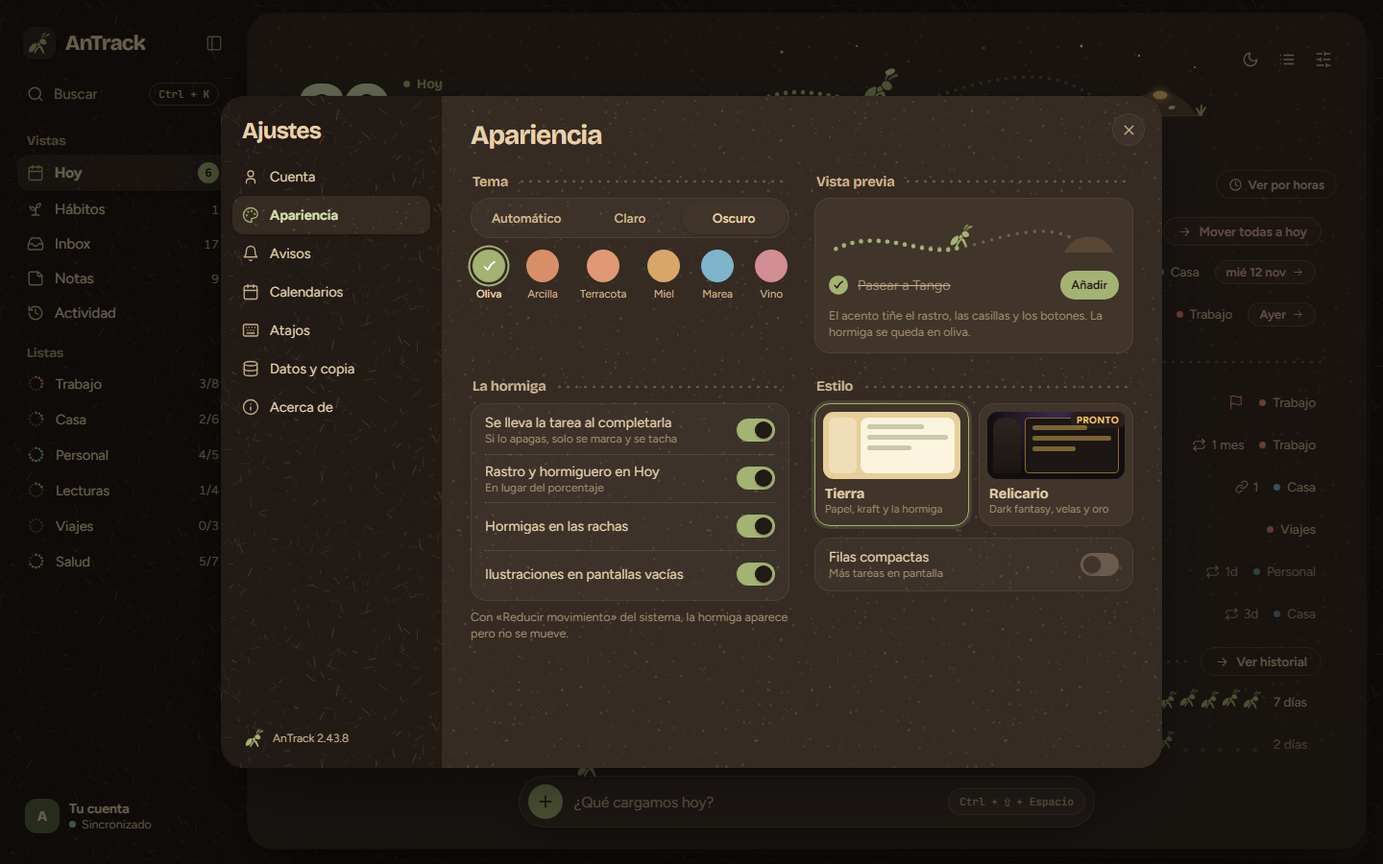
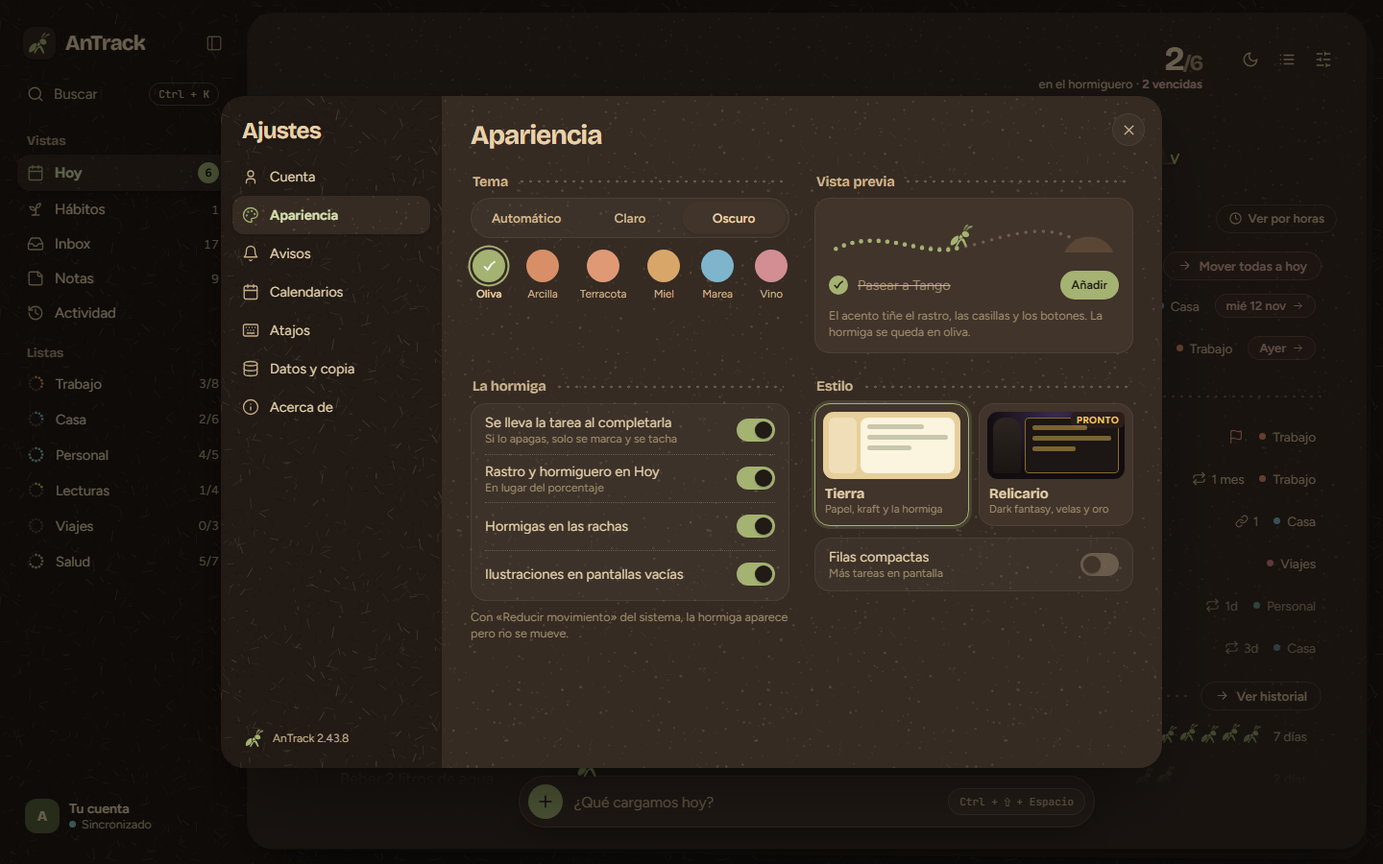
Docs: el nuevo progreso (senda con paradas y hormiguero) en todas las maquetas

diff --git a/docs/disenos/hormiga/movil.html b/docs/disenos/hormiga/movil.html
@@ -682,6 +682,44 @@ a{color:inherit;text-decoration:none}
 .bandera-r path:last-child{fill:var(--o500)}
 .mejor .etq-2{fill:var(--o600);font-weight:650}
 
+/* ═══ 26-nov: el progreso de Hoy como senda con paradas (ver progreso.html) ═══ */
+:root{--senda:#efdfb5;--senda-borde:#e2cb93;--piedra:#d9c49a}
+:root[data-theme="dark"]{--senda:#3f3328;--senda-borde:#4a3c2f;--piedra:#55463a}
+.rastro .rastro-pie{display:none}
+.cabeza .rastro{width:min(620px,100%);align-self:center}
+.pg-movil .cont-n,.pg-movil .cont-t{display:none}
+.bandera-r{display:none}
+.pg-host svg.pg{display:block;width:100%;height:auto;overflow:visible}
+.pg-host .senda-b{fill:none;stroke:var(--senda-borde);opacity:.75;stroke-width:17;stroke-linecap:round;stroke-linejoin:round}
+.pg-host .senda{fill:none;stroke:var(--senda);stroke-width:12;stroke-linecap:round;stroke-linejoin:round}
+.pg-host .pisada{fill:var(--punto);transition:fill .25s}
+.pg-host .pisada.h{fill:var(--o500)}
+.pg-host .piedra{fill:var(--piedra)}
+.pg-host .mata{fill:none;stroke:var(--o400);stroke-width:1.8;stroke-linecap:round}
+.pg-host .hojita{fill:var(--o400)}
+.pg-host .sombra-p{fill:rgba(0,0,0,.13)}
+.pg-host .parada{transition:fill .3s;transform-box:fill-box;transform-origin:center}
+.pg-host .parada.pend{fill:var(--hoja);stroke:var(--punto);stroke-width:1.8;stroke-dasharray:2.4 2.2}
+.pg-host .parada.venc{fill:rgba(var(--venc-rgb),.12);stroke:var(--venc);stroke-width:1.8;stroke-dasharray:none}
+.pg-host .parada.ok{stroke:none}
+.pg-host .parada.pop{animation:pgpop .45s cubic-bezier(.3,1.7,.5,1)}
+@keyframes pgpop{0%{transform:scale(.3)}100%{transform:scale(1)}}
+.pg-host .cont-n{font:700 34px var(--f-disp);letter-spacing:-.04em;fill:var(--t1)}
+.pg-host .cont-n tspan.de{fill:var(--t3);font-size:22px}
+.pg-host .cont-t{font:500 12.5px var(--f-sans);fill:var(--t2)}
+.pg-host .cont-t .v{fill:var(--venc);font-weight:650}
+.pg-host .pg-bandera{opacity:0;transition:opacity .4s}
+.pg-host .lleno .pg-bandera{opacity:1}
+.pg-host .entrada{fill:var(--tierra-osc);transition:filter .4s}
+.pg-host .lleno .entrada{filter:drop-shadow(0 0 5px rgba(242,196,109,.95))}
+.pg-host .grano{fill:var(--c);stroke:rgba(0,0,0,.18);stroke-width:.8}
+.pg-host .grano.nuevo{animation:pgcae .5s ease-out}
+@keyframes pgcae{from{transform:translateY(-14px);opacity:0}}
+.pg-host .mont-tex{pointer-events:none}
+.pg-host .ramita{fill:none;stroke:var(--ramita);stroke-width:2;stroke-linecap:round}
+.pg-host .mont-cuerpo{transition:transform .6s cubic-bezier(.3,1.5,.5,1)}
+.pg-host .suelo{fill:none;stroke:var(--suelo);stroke-width:2.4;stroke-linecap:round}
+
 @media (prefers-reduced-motion:reduce){*,*::before,*::after{animation:none!important;transition:none!important}}
 </style>
 </head>
@@ -976,7 +1014,7 @@ function camara(c,r,cols){
   for(let row=0;n>0&&row<14;row++){const cnt=Math.max(1,base-Math.floor(row/dec)),y=floor-row*SH;if(y<c.cy-c.ry+6)break;const x0=c.cx+ox-(cnt-1)*SW/2;
     for(let i=0;i<cnt&&n>0;i++,n--){const x=x0+i*SW+(r()-.5)*2,col=cols[Math.floor(r()*cols.length)],a=((r()-.5)*36).toFixed(0);
       s+=`<ellipse class="semilla" cx="${x.toFixed(1)}" cy="${y.toFixed(1)}" rx="5" ry="3.1" style="fill:${col}" transform="rotate(${a} ${x.toFixed(1)} ${y.toFixed(1)})"/>`;}}
-  if(c.mejor)s+=`<g class="bandera-r"><path d="M${c.cx} ${c.cy-c.ry+4} V ${c.cy-c.ry-16}"/><path d="M${c.cx+1} ${c.cy-c.ry-16} l 13 4.5 l -13 4.5 Z"/></g>`;
+  if(c.mejor)s+=`<g class="bandera-r"><path d="M${c.cx+c.rx*.55} ${c.cy-c.ry*.8+4} V ${c.cy-c.ry*.8-14}"/><path d="M${c.cx+c.rx*.55+1} ${c.cy-c.ry*.8-14} l 13 4.5 l -13 4.5 Z"/></g>`;
   
   if(c.actual){
     const ax=c.cx+c.rx*0.38,ay=c.cy+c.ry-27;
@@ -1601,6 +1639,97 @@ document.addEventListener('click',e=>{
 });
 
 document.addEventListener('click',e=>{if(e.target.closest('.velo')){location.hash='hoy';return;}if(e.target.closest('.m-fab')){location.hash=document.body.classList.contains('e-notas')?'notas':'captura';return;}const b=e.target.closest('.m-herr button');if(b&&b.innerHTML.includes('M4 6h16')){location.hash='menu';return;}if(b&&b.getAttribute('aria-label')==='Buscar'||b&&b.innerHTML.includes('m21 21-4.3'))location.hash='buscar';});
+/* ═══ 26-nov: el progreso de Hoy como senda con paradas ═══
+   Sustituye al rastro de puntos. Mismo componente que progreso.html. */
+const PGNS='http://www.w3.org/2000/svg';
+const PGL={t:'var(--l-trabajo)',c:'var(--l-casa)',p:'var(--l-personal)',r:'var(--l-lect)',v:'var(--l-viajes)'};
+let pgUid=0,PG=null;
+function pgTextura(nx,ny){let r=7,o="";const R=()=>(r=(r*1664525+1013904223)>>>0)/4294967296;
+  for(let i=0;i<90;i++){const x=nx-46+R()*92,y=ny-R()*48;const e=((x-nx+1)/47)**2+((ny-y)/49)**2;if(e>.86)continue;
+    o+=`<circle cx="${x.toFixed(1)}" cy="${y.toFixed(1)}" r="${(0.6+R()*1.1).toFixed(2)}" style="fill:${R()<.6?"var(--mont-3)":"var(--mont-1)"};opacity:${(0.45+R()*0.4).toFixed(2)}"/>`;}
+  return o;}
+function pgNuevo(el,{tareas,movil,venc}){
+  const U=++pgUid;
+  const W=movil?360:600,H=(movil?116:124)+18;
+  const TR=movil?'M14 86 C 60 60, 100 100, 160 80 S 236 58, 262 78':'M20 92 C 100 60, 170 108, 260 84 S 400 56, 452 82';
+  const nx=movil?312:520,ny=movil?96:104;
+  const muchas=tareas.length>10, rx=muchas?5:8, ry=muchas?3.4:5.2;
+  el.innerHTML=`<svg class="pg" viewBox="0 0 ${W} ${H}"><defs><radialGradient id="mg${U}" cx="38%" cy="22%" r="85%"><stop offset="0" stop-color="var(--mont-1)"/><stop offset=".55" stop-color="var(--mont-2)"/><stop offset="1" stop-color="var(--mont-3)"/></radialGradient><filter id="rug${U}" x="-5%" y="-30%" width="110%" height="160%"><feTurbulence type="fractalNoise" baseFrequency=".09" numOctaves="2" seed="4"/><feDisplacementMap in="SourceGraphic" scale="4.5"/></filter><mask id="m${pgUid++}" maskUnits="userSpaceOnUse" x="-20" y="-20" width="${W+40}" height="${H+40}"><path class="mk" d="${TR}" fill="none" stroke="#fff" stroke-width="16" stroke-linecap="round"/></mask></defs>
+    <g transform="translate(0 18)"><g class="deco"></g><g filter="url(#rug${U})"><path d="${TR} C ${nx-62} ${ny-28}, ${nx-46} ${ny-8}, ${nx-24} ${ny-8}" class="senda-b"/><path d="${TR} C ${nx-62} ${ny-28}, ${nx-46} ${ny-8}, ${nx-24} ${ny-8}" class="senda"/></g><g class="pisadas"></g><path class="mk" d="" style="display:none"/><path class="guia" d="${TR}" fill="none"/>
+    <g class="paradas"></g>
+    <g class="nido"><path class="suelo" d="M${nx-10} ${ny} H ${nx+48}"/>
+      <ellipse cx="${nx}" cy="${ny+1}" rx="56" ry="5" style="fill:rgba(0,0,0,.12)"/>
+      <g class="mont-cuerpo" style="transform-origin:${nx}px ${ny}px">
+        <path d="M${nx-50} ${ny} C ${nx-47} ${ny-14}, ${nx-41} ${ny-25}, ${nx-30} ${ny-35} C ${nx-22} ${ny-43}, ${nx-10} ${ny-50}, ${nx+3} ${ny-49} C ${nx+9} ${ny-52}, ${nx+16} ${ny-49}, ${nx+20} ${ny-46} C ${nx+30} ${ny-40}, ${nx+40} ${ny-24}, ${nx+48} ${ny} Z" style="fill:url(#mg${U})"/>
+        <g class="mont-tex">${pgTextura(nx,ny)}</g>
+        <path class="ramita" d="M${nx-6} ${ny-38} l 22 -6 M${nx+8} ${ny-40} l 5 -4"/><path class="ramita" d="M${nx+18} ${ny-26} l 16 7"/>
+      </g>
+      <g filter="url(#rug${U})"><path d="M${nx-52} ${ny-16} C ${nx-42} ${ny-13}, ${nx-32} ${ny-7}, ${nx-23} ${ny-6}" class="senda-b" style="stroke-width:15"/><path d="M${nx-52} ${ny-16} C ${nx-42} ${ny-13}, ${nx-32} ${ny-7}, ${nx-23} ${ny-6}" class="senda" style="stroke-width:10"/></g>
+      <path class="entrada" d="M${nx-33} ${ny} C ${nx-33} ${ny-17}, ${nx-13} ${ny-17}, ${nx-13} ${ny} Z"/><path d="M${nx-35} ${ny} C ${nx-35} ${ny-20}, ${nx-11} ${ny-20}, ${nx-11} ${ny}" style="fill:none;stroke:var(--senda-borde);stroke-width:2.4;opacity:.9"/>
+      <g class="granos"></g>
+      <g class="pg-bandera"><path d="M${nx+14} ${ny-36} V ${ny-66}" style="stroke:var(--t2);stroke-width:2.2;stroke-linecap:round"/><path d="M${nx+15} ${ny-66} L ${nx+36} ${ny-59} L ${nx+15} ${ny-52} Z" style="fill:var(--o500)"/></g>
+      <path class="hierba" d="M${nx+50} ${ny} l-3 -8 M${nx+50} ${ny} l4 -9"/></g>
+    <g class="hor">${hormiga({x:-(movil?20:24),y:-(movil?36:43),w:movil?40:48})}</g></g>
+    <text class="cont-n" x="${W-2}" y="28" text-anchor="end"></text>
+    <text class="cont-t" x="${W-2}" y="46" text-anchor="end"></text></svg>`;
+  const g=el.querySelector('.guia'),Lg=g.getTotalLength();
+  const posL=i=>Lg*(0.05+0.9*(tareas.length===1?0.5:i/(tareas.length-1)));
+  const pt=l=>{const a=g.getPointAtLength(l),b=g.getPointAtLength(Math.min(Lg,l+2)),c=g.getPointAtLength(Math.max(0,l-2));return {x:a.x,y:a.y,ang:Math.atan2(b.y-c.y,b.x-c.x)*180/Math.PI};};
+  const nrm=l=>{const a=g.getPointAtLength(Math.max(0,l-1)),b=g.getPointAtLength(Math.min(Lg,l+1));const dx=b.x-a.x,dy=b.y-a.y,m=Math.hypot(dx,dy)||1;return [-dy/m,dx/m];};
+  const fps=[],gpi=el.querySelector('.pisadas'),paso_=muchas?7:8;
+  for(let l=4,i=0;l<Lg-2;l+=paso_,i++){const a=g.getPointAtLength(l),[nx_,ny_]=nrm(l),sd=i%2?1:-1;const c=document.createElementNS(PGNS,'ellipse');
+    c.setAttribute('cx',(a.x+nx_*3*sd).toFixed(1));c.setAttribute('cy',(a.y+ny_*3*sd).toFixed(1));c.setAttribute('rx','1.9');c.setAttribute('ry','1.3');c.setAttribute('class','pisada');gpi.appendChild(c);fps.push({l,c});}
+  const dg=el.querySelector('.deco');const deco=(f,off,html)=>{const l=Lg*f,a=g.getPointAtLength(l),[ux,uy]=nrm(l);return html(a.x+ux*off,a.y+uy*off);};
+  dg.innerHTML=[
+    deco(.16,17,(x,y)=>`<path class="mata" d="M${x} ${y} l-3 -7 M${x} ${y} l0.5 -9 M${x} ${y} l4 -6"/>`),
+    deco(.33,-15,(x,y)=>`<ellipse class="piedra" cx="${x}" cy="${y}" rx="4.5" ry="3"/><ellipse class="piedra" cx="${x+7}" cy="${y+2}" rx="2.6" ry="2"/>`),
+    deco(.52,16,(x,y)=>`<path class="hojita" d="M${x} ${y} q 8 -10 16 -3 q -8 8 -16 3 Z"/>`),
+    deco(.7,-16,(x,y)=>`<path class="mata" d="M${x} ${y} l-3 -7 M${x} ${y} l0.5 -10 M${x} ${y} l4 -7"/>`),
+    deco(.86,15,(x,y)=>`<ellipse class="piedra" cx="${x}" cy="${y}" rx="3.4" ry="2.4"/>`)].join('');
+  const gp=el.querySelector('.paradas');
+  tareas.forEach((t,i)=>{const q=pt(posL(i));const w=document.createElementNS(PGNS,'g');w.setAttribute('transform',`translate(${q.x.toFixed(1)} ${q.y.toFixed(1)}) rotate(${(q.ang-25).toFixed(1)})`);
+    const sh=document.createElementNS(PGNS,'ellipse');sh.setAttribute('cy',1.8);sh.setAttribute('rx',rx);sh.setAttribute('ry',ry*.8);sh.setAttribute('class','sombra-p');w.appendChild(sh);
+    const e=document.createElementNS(PGNS,'ellipse');e.setAttribute('rx',rx);e.setAttribute('ry',ry);e.classList.add('parada');w.appendChild(e);gp.appendChild(w);t.el=e;});
+  const s={tareas,el,Lg,pAct:0};
+  const GR=[];for(let r=0,c=5;c>0;r++,c--)for(let i=0;i<c;i++)GR.push([-4+i*9+r*4.5,-r*5.4]);
+  s.pintar=(animarGrano)=>{
+    const done=tareas.filter(t=>t.ok).length,total=tareas.length,v=tareas.filter(t=>!t.ok&&t.venc).length;
+    tareas.forEach(t=>{t.el.setAttribute('class','parada '+(t.ok?'ok':t.venc?'pend venc':'pend'));t.el.style.fill=t.ok?PGL[t.l]:'';});
+    const ultima=tareas.reduce((m,t,i)=>t.ok?i:m,-1);
+    const mk=el.querySelector('.mk');mk.style.strokeDasharray=`${Lg} ${Lg}`;mk.style.strokeDashoffset=Lg-(ultima<0?0:posL(ultima));
+    const gg=el.querySelector('.granos');gg.innerHTML='';tareas.filter(t=>t.ok).slice(0,GR.length).forEach((t,i)=>{const [dx,dy]=GR[i];
+      gg.insertAdjacentHTML('beforeend',`<ellipse class="grano${animarGrano&&i===done-1?' nuevo':''}" style="--c:${PGL[t.l]}" cx="${nx+dx}" cy="${ny+dy-3}" rx="4.8" ry="3" transform="rotate(${(i*37)%40-20} ${nx+dx} ${ny+dy-3})"/>`);});
+    el.querySelector('svg').classList.toggle('lleno',done===total);
+    el.querySelector('.mont-cuerpo').style.transform=`scale(${(0.86+0.18*done/total).toFixed(3)})`;
+    el.querySelector('.cont-n').innerHTML=`${done}<tspan class="de">/${total}</tspan>`;
+    el.querySelector('.cont-t').innerHTML=done===total?'todo en el hormiguero':v?`en el hormiguero · <tspan class="v">${v} ${v>1?'vencidas':'vencida'}</tspan>`:'en el hormiguero';
+  };
+  s.destino=()=>{const i=tareas.findIndex(t=>!t.ok);return i<0?Lg+30:posL(i)-(muchas?12:18);};
+  s.colocar=l=>{fps.forEach(f=>f.c.classList.toggle('h',f.l<l));let q;if(l>Lg){q={x:nx-38,y:ny-1,ang:0};}else q=pt(Math.max(0,l));
+    el.querySelector('.hor').setAttribute('transform',`translate(${q.x.toFixed(1)} ${q.y.toFixed(1)}) rotate(${q.ang.toFixed(1)})`);s.pAct=l;};
+  s.completar=()=>{const i=tareas.findIndex(t=>!t.ok);if(i<0||s.ocupado)return;s.ocupado=true;
+    tareas[i].ok=true;s.pintar(true);tareas[i].el.classList.add('pop');
+    const l0=s.pAct,l1=s.destino(),t0=performance.now(),D=900,ant=el.querySelector('.hormiga');ant.classList.add('anda');
+    (function paso(t){const k=Math.min(1,(t-t0)/D),e=k<.5?2*k*k:1-Math.pow(-2*k+2,2)/2;s.colocar(l1>Lg&&k>.85?l1:l0+(Math.min(l1,Lg)-l0)*e);
+      if(k<1)requestAnimationFrame(paso);else{ant.classList.remove('anda');s.colocar(l1);s.ocupado=false;}})(t0);};
+  s.pintar();s.colocar(s.destino());return s;
+}
+
+
+function pgTareas(){const H='pctrvtcp'.split(''),D='pcrtvcpt'.split('');const t=[];
+  for(let i=0;i<E.done;i++)t.push({l:D[i%D.length],ok:1});
+  for(let i=0;i<E.venc&&t.length<E.total;i++)t.push({l:i%2?'t':'c',venc:1});
+  while(t.length<E.total)t.push({l:H[t.length%H.length]});return t;}
+function rastroSVG(){return `<div class="pg-host"><svg width="0" height="0"><path id="tr-guia" d="M0 0"/><path id="tr-mask" d="M0 0"/><g id="tr-hor"><svg class="hormiga"></svg></g></svg></div>`;}
+function ponerProgreso(){const h=document.querySelector('.pg-host');if(!h)return;
+  const mv=h.getBoundingClientRect().width<420;PG=pgNuevo(h,{tareas:pgTareas(),movil:mv});
+  if(mv){h.classList.add('pg-movil');h.querySelector('svg').setAttribute('viewBox','0 24 360 100');}pie();}
+function pie(){const mv=document.querySelector('.pg-movil');
+  const n=document.getElementById('n-nav');if(n)n.textContent=E.pend;const c=document.getElementById('n-tareas');if(c)c.textContent=E.pend;
+  const m=document.getElementById('mes');if(!m)return;
+  m.innerHTML=mv?`<b>${E.done}/${E.total}</b> hechas${E.venc?` · <span style="color:var(--venc);font-weight:600">${E.venc} vencidas</span>`:''}`:(E.pend?`de noviembre · ${E.pend} sin hacer`:'de noviembre · nada pendiente');}
+function avanzar(){if(PG)PG.completar();}
+function migas(){}
 /* ═══ Arranque ═══ */
 texturas();
 const raiz=document.getElementById('raiz');

diff --git a/docs/disenos/hormiga/index.html b/docs/disenos/hormiga/index.html
@@ -571,6 +571,43 @@ a{color:inherit;text-decoration:none}
 .bandera-r path:last-child{fill:var(--o500)}
 .mejor .etq-2{fill:var(--o600);font-weight:650}
 
+/* ═══ 26-nov: el progreso de Hoy como senda con paradas (ver progreso.html) ═══ */
+:root{--senda:#efdfb5;--senda-borde:#e2cb93;--piedra:#d9c49a}
+:root[data-theme="dark"]{--senda:#3f3328;--senda-borde:#4a3c2f;--piedra:#55463a}
+.rastro .rastro-pie{display:none}
+.cabeza .rastro{width:min(620px,100%);align-self:center}
+.pg-movil .cont-n,.pg-movil .cont-t{display:none}
+.pg-host svg.pg{display:block;width:100%;height:auto;overflow:visible}
+.pg-host .senda-b{fill:none;stroke:var(--senda-borde);opacity:.75;stroke-width:17;stroke-linecap:round;stroke-linejoin:round}
+.pg-host .senda{fill:none;stroke:var(--senda);stroke-width:12;stroke-linecap:round;stroke-linejoin:round}
+.pg-host .pisada{fill:var(--punto);transition:fill .25s}
+.pg-host .pisada.h{fill:var(--o500)}
+.pg-host .piedra{fill:var(--piedra)}
+.pg-host .mata{fill:none;stroke:var(--o400);stroke-width:1.8;stroke-linecap:round}
+.pg-host .hojita{fill:var(--o400)}
+.pg-host .sombra-p{fill:rgba(0,0,0,.13)}
+.pg-host .parada{transition:fill .3s;transform-box:fill-box;transform-origin:center}
+.pg-host .parada.pend{fill:var(--hoja);stroke:var(--punto);stroke-width:1.8;stroke-dasharray:2.4 2.2}
+.pg-host .parada.venc{fill:rgba(var(--venc-rgb),.12);stroke:var(--venc);stroke-width:1.8;stroke-dasharray:none}
+.pg-host .parada.ok{stroke:none}
+.pg-host .parada.pop{animation:pgpop .45s cubic-bezier(.3,1.7,.5,1)}
+@keyframes pgpop{0%{transform:scale(.3)}100%{transform:scale(1)}}
+.pg-host .cont-n{font:700 34px var(--f-disp);letter-spacing:-.04em;fill:var(--t1)}
+.pg-host .cont-n tspan.de{fill:var(--t3);font-size:22px}
+.pg-host .cont-t{font:500 12.5px var(--f-sans);fill:var(--t2)}
+.pg-host .cont-t .v{fill:var(--venc);font-weight:650}
+.pg-host .pg-bandera{opacity:0;transition:opacity .4s}
+.pg-host .lleno .pg-bandera{opacity:1}
+.pg-host .entrada{fill:var(--tierra-osc);transition:filter .4s}
+.pg-host .lleno .entrada{filter:drop-shadow(0 0 5px rgba(242,196,109,.95))}
+.pg-host .grano{fill:var(--c);stroke:rgba(0,0,0,.18);stroke-width:.8}
+.pg-host .grano.nuevo{animation:pgcae .5s ease-out}
+@keyframes pgcae{from{transform:translateY(-14px);opacity:0}}
+.pg-host .mont-tex{pointer-events:none}
+.pg-host .ramita{fill:none;stroke:var(--ramita);stroke-width:2;stroke-linecap:round}
+.pg-host .mont-cuerpo{transition:transform .6s cubic-bezier(.3,1.5,.5,1)}
+.pg-host .suelo{fill:none;stroke:var(--suelo);stroke-width:2.4;stroke-linecap:round}
+
 @media (prefers-reduced-motion:reduce){*,*::before,*::after{animation:none!important;transition:none!important}}
 </style>
 </head>
@@ -884,7 +921,7 @@ function camara(c,r,cols){
   for(let row=0;n>0&&row<14;row++){const cnt=Math.max(1,base-Math.floor(row/dec)),y=floor-row*SH;if(y<c.cy-c.ry+6)break;const x0=c.cx+ox-(cnt-1)*SW/2;
     for(let i=0;i<cnt&&n>0;i++,n--){const x=x0+i*SW+(r()-.5)*2,col=cols[Math.floor(r()*cols.length)],a=((r()-.5)*36).toFixed(0);
       s+=`<ellipse class="semilla" cx="${x.toFixed(1)}" cy="${y.toFixed(1)}" rx="6.2" ry="3.8" style="fill:${col}" transform="rotate(${a} ${x.toFixed(1)} ${y.toFixed(1)})"/>`;}}
-  if(c.mejor)s+=`<g class="bandera-r"><path d="M${c.cx} ${c.cy-c.ry+4} V ${c.cy-c.ry-16}"/><path d="M${c.cx+1} ${c.cy-c.ry-16} l 13 4.5 l -13 4.5 Z"/></g>`;
+  if(c.mejor)s+=`<g class="bandera-r"><path d="M${c.cx+c.rx*.55} ${c.cy-c.ry*.8+4} V ${c.cy-c.ry*.8-14}"/><path d="M${c.cx+c.rx*.55+1} ${c.cy-c.ry*.8-14} l 13 4.5 l -13 4.5 Z"/></g>`;
   
   if(c.actual){
     const ax=c.cx+c.rx*0.42,ay=c.cy+c.ry-34;
@@ -1270,6 +1307,97 @@ document.addEventListener('click',e=>{
 });
 addEventListener('keydown',e=>{if((e.ctrlKey||e.metaKey)&&e.key.toLowerCase()==='k'){e.preventDefault();location.hash='buscar';}if(e.key==='Escape'&&/buscar|ajustes/.test(location.hash))location.hash='hoy';});
 
+/* ═══ 26-nov: el progreso de Hoy como senda con paradas ═══
+   Sustituye al rastro de puntos. Mismo componente que progreso.html. */
+const PGNS='http://www.w3.org/2000/svg';
+const PGL={t:'var(--l-trabajo)',c:'var(--l-casa)',p:'var(--l-personal)',r:'var(--l-lect)',v:'var(--l-viajes)'};
+let pgUid=0,PG=null;
+function pgTextura(nx,ny){let r=7,o="";const R=()=>(r=(r*1664525+1013904223)>>>0)/4294967296;
+  for(let i=0;i<90;i++){const x=nx-46+R()*92,y=ny-R()*48;const e=((x-nx+1)/47)**2+((ny-y)/49)**2;if(e>.86)continue;
+    o+=`<circle cx="${x.toFixed(1)}" cy="${y.toFixed(1)}" r="${(0.6+R()*1.1).toFixed(2)}" style="fill:${R()<.6?"var(--mont-3)":"var(--mont-1)"};opacity:${(0.45+R()*0.4).toFixed(2)}"/>`;}
+  return o;}
+function pgNuevo(el,{tareas,movil,venc}){
+  const U=++pgUid;
+  const W=movil?360:600,H=(movil?116:124)+18;
+  const TR=movil?'M14 86 C 60 60, 100 100, 160 80 S 236 58, 262 78':'M20 92 C 100 60, 170 108, 260 84 S 400 56, 452 82';
+  const nx=movil?312:520,ny=movil?96:104;
+  const muchas=tareas.length>10, rx=muchas?5:8, ry=muchas?3.4:5.2;
+  el.innerHTML=`<svg class="pg" viewBox="0 0 ${W} ${H}"><defs><radialGradient id="mg${U}" cx="38%" cy="22%" r="85%"><stop offset="0" stop-color="var(--mont-1)"/><stop offset=".55" stop-color="var(--mont-2)"/><stop offset="1" stop-color="var(--mont-3)"/></radialGradient><filter id="rug${U}" x="-5%" y="-30%" width="110%" height="160%"><feTurbulence type="fractalNoise" baseFrequency=".09" numOctaves="2" seed="4"/><feDisplacementMap in="SourceGraphic" scale="4.5"/></filter><mask id="m${pgUid++}" maskUnits="userSpaceOnUse" x="-20" y="-20" width="${W+40}" height="${H+40}"><path class="mk" d="${TR}" fill="none" stroke="#fff" stroke-width="16" stroke-linecap="round"/></mask></defs>
+    <g transform="translate(0 18)"><g class="deco"></g><g filter="url(#rug${U})"><path d="${TR} C ${nx-62} ${ny-28}, ${nx-46} ${ny-8}, ${nx-24} ${ny-8}" class="senda-b"/><path d="${TR} C ${nx-62} ${ny-28}, ${nx-46} ${ny-8}, ${nx-24} ${ny-8}" class="senda"/></g><g class="pisadas"></g><path class="mk" d="" style="display:none"/><path class="guia" d="${TR}" fill="none"/>
+    <g class="paradas"></g>
+    <g class="nido"><path class="suelo" d="M${nx-10} ${ny} H ${nx+48}"/>
+      <ellipse cx="${nx}" cy="${ny+1}" rx="56" ry="5" style="fill:rgba(0,0,0,.12)"/>
+      <g class="mont-cuerpo" style="transform-origin:${nx}px ${ny}px">
+        <path d="M${nx-50} ${ny} C ${nx-47} ${ny-14}, ${nx-41} ${ny-25}, ${nx-30} ${ny-35} C ${nx-22} ${ny-43}, ${nx-10} ${ny-50}, ${nx+3} ${ny-49} C ${nx+9} ${ny-52}, ${nx+16} ${ny-49}, ${nx+20} ${ny-46} C ${nx+30} ${ny-40}, ${nx+40} ${ny-24}, ${nx+48} ${ny} Z" style="fill:url(#mg${U})"/>
+        <g class="mont-tex">${pgTextura(nx,ny)}</g>
+        <path class="ramita" d="M${nx-6} ${ny-38} l 22 -6 M${nx+8} ${ny-40} l 5 -4"/><path class="ramita" d="M${nx+18} ${ny-26} l 16 7"/>
+      </g>
+      <g filter="url(#rug${U})"><path d="M${nx-52} ${ny-16} C ${nx-42} ${ny-13}, ${nx-32} ${ny-7}, ${nx-23} ${ny-6}" class="senda-b" style="stroke-width:15"/><path d="M${nx-52} ${ny-16} C ${nx-42} ${ny-13}, ${nx-32} ${ny-7}, ${nx-23} ${ny-6}" class="senda" style="stroke-width:10"/></g>
+      <path class="entrada" d="M${nx-33} ${ny} C ${nx-33} ${ny-17}, ${nx-13} ${ny-17}, ${nx-13} ${ny} Z"/><path d="M${nx-35} ${ny} C ${nx-35} ${ny-20}, ${nx-11} ${ny-20}, ${nx-11} ${ny}" style="fill:none;stroke:var(--senda-borde);stroke-width:2.4;opacity:.9"/>
+      <g class="granos"></g>
+      <g class="pg-bandera"><path d="M${nx+14} ${ny-36} V ${ny-66}" style="stroke:var(--t2);stroke-width:2.2;stroke-linecap:round"/><path d="M${nx+15} ${ny-66} L ${nx+36} ${ny-59} L ${nx+15} ${ny-52} Z" style="fill:var(--o500)"/></g>
+      <path class="hierba" d="M${nx+50} ${ny} l-3 -8 M${nx+50} ${ny} l4 -9"/></g>
+    <g class="hor">${hormiga({x:-(movil?20:24),y:-(movil?36:43),w:movil?40:48})}</g></g>
+    <text class="cont-n" x="${W-2}" y="28" text-anchor="end"></text>
+    <text class="cont-t" x="${W-2}" y="46" text-anchor="end"></text></svg>`;
+  const g=el.querySelector('.guia'),Lg=g.getTotalLength();
+  const posL=i=>Lg*(0.05+0.9*(tareas.length===1?0.5:i/(tareas.length-1)));
+  const pt=l=>{const a=g.getPointAtLength(l),b=g.getPointAtLength(Math.min(Lg,l+2)),c=g.getPointAtLength(Math.max(0,l-2));return {x:a.x,y:a.y,ang:Math.atan2(b.y-c.y,b.x-c.x)*180/Math.PI};};
+  const nrm=l=>{const a=g.getPointAtLength(Math.max(0,l-1)),b=g.getPointAtLength(Math.min(Lg,l+1));const dx=b.x-a.x,dy=b.y-a.y,m=Math.hypot(dx,dy)||1;return [-dy/m,dx/m];};
+  const fps=[],gpi=el.querySelector('.pisadas'),paso_=muchas?7:8;
+  for(let l=4,i=0;l<Lg-2;l+=paso_,i++){const a=g.getPointAtLength(l),[nx_,ny_]=nrm(l),sd=i%2?1:-1;const c=document.createElementNS(PGNS,'ellipse');
+    c.setAttribute('cx',(a.x+nx_*3*sd).toFixed(1));c.setAttribute('cy',(a.y+ny_*3*sd).toFixed(1));c.setAttribute('rx','1.9');c.setAttribute('ry','1.3');c.setAttribute('class','pisada');gpi.appendChild(c);fps.push({l,c});}
+  const dg=el.querySelector('.deco');const deco=(f,off,html)=>{const l=Lg*f,a=g.getPointAtLength(l),[ux,uy]=nrm(l);return html(a.x+ux*off,a.y+uy*off);};
+  dg.innerHTML=[
+    deco(.16,17,(x,y)=>`<path class="mata" d="M${x} ${y} l-3 -7 M${x} ${y} l0.5 -9 M${x} ${y} l4 -6"/>`),
+    deco(.33,-15,(x,y)=>`<ellipse class="piedra" cx="${x}" cy="${y}" rx="4.5" ry="3"/><ellipse class="piedra" cx="${x+7}" cy="${y+2}" rx="2.6" ry="2"/>`),
+    deco(.52,16,(x,y)=>`<path class="hojita" d="M${x} ${y} q 8 -10 16 -3 q -8 8 -16 3 Z"/>`),
+    deco(.7,-16,(x,y)=>`<path class="mata" d="M${x} ${y} l-3 -7 M${x} ${y} l0.5 -10 M${x} ${y} l4 -7"/>`),
+    deco(.86,15,(x,y)=>`<ellipse class="piedra" cx="${x}" cy="${y}" rx="3.4" ry="2.4"/>`)].join('');
+  const gp=el.querySelector('.paradas');
+  tareas.forEach((t,i)=>{const q=pt(posL(i));const w=document.createElementNS(PGNS,'g');w.setAttribute('transform',`translate(${q.x.toFixed(1)} ${q.y.toFixed(1)}) rotate(${(q.ang-25).toFixed(1)})`);
+    const sh=document.createElementNS(PGNS,'ellipse');sh.setAttribute('cy',1.8);sh.setAttribute('rx',rx);sh.setAttribute('ry',ry*.8);sh.setAttribute('class','sombra-p');w.appendChild(sh);
+    const e=document.createElementNS(PGNS,'ellipse');e.setAttribute('rx',rx);e.setAttribute('ry',ry);e.classList.add('parada');w.appendChild(e);gp.appendChild(w);t.el=e;});
+  const s={tareas,el,Lg,pAct:0};
+  const GR=[];for(let r=0,c=5;c>0;r++,c--)for(let i=0;i<c;i++)GR.push([-4+i*9+r*4.5,-r*5.4]);
+  s.pintar=(animarGrano)=>{
+    const done=tareas.filter(t=>t.ok).length,total=tareas.length,v=tareas.filter(t=>!t.ok&&t.venc).length;
+    tareas.forEach(t=>{t.el.setAttribute('class','parada '+(t.ok?'ok':t.venc?'pend venc':'pend'));t.el.style.fill=t.ok?PGL[t.l]:'';});
+    const ultima=tareas.reduce((m,t,i)=>t.ok?i:m,-1);
+    const mk=el.querySelector('.mk');mk.style.strokeDasharray=`${Lg} ${Lg}`;mk.style.strokeDashoffset=Lg-(ultima<0?0:posL(ultima));
+    const gg=el.querySelector('.granos');gg.innerHTML='';tareas.filter(t=>t.ok).slice(0,GR.length).forEach((t,i)=>{const [dx,dy]=GR[i];
+      gg.insertAdjacentHTML('beforeend',`<ellipse class="grano${animarGrano&&i===done-1?' nuevo':''}" style="--c:${PGL[t.l]}" cx="${nx+dx}" cy="${ny+dy-3}" rx="4.8" ry="3" transform="rotate(${(i*37)%40-20} ${nx+dx} ${ny+dy-3})"/>`);});
+    el.querySelector('svg').classList.toggle('lleno',done===total);
+    el.querySelector('.mont-cuerpo').style.transform=`scale(${(0.86+0.18*done/total).toFixed(3)})`;
+    el.querySelector('.cont-n').innerHTML=`${done}<tspan class="de">/${total}</tspan>`;
+    el.querySelector('.cont-t').innerHTML=done===total?'todo en el hormiguero':v?`en el hormiguero · <tspan class="v">${v} ${v>1?'vencidas':'vencida'}</tspan>`:'en el hormiguero';
+  };
+  s.destino=()=>{const i=tareas.findIndex(t=>!t.ok);return i<0?Lg+30:posL(i)-(muchas?12:18);};
+  s.colocar=l=>{fps.forEach(f=>f.c.classList.toggle('h',f.l<l));let q;if(l>Lg){q={x:nx-38,y:ny-1,ang:0};}else q=pt(Math.max(0,l));
+    el.querySelector('.hor').setAttribute('transform',`translate(${q.x.toFixed(1)} ${q.y.toFixed(1)}) rotate(${q.ang.toFixed(1)})`);s.pAct=l;};
+  s.completar=()=>{const i=tareas.findIndex(t=>!t.ok);if(i<0||s.ocupado)return;s.ocupado=true;
+    tareas[i].ok=true;s.pintar(true);tareas[i].el.classList.add('pop');
+    const l0=s.pAct,l1=s.destino(),t0=performance.now(),D=900,ant=el.querySelector('.hormiga');ant.classList.add('anda');
+    (function paso(t){const k=Math.min(1,(t-t0)/D),e=k<.5?2*k*k:1-Math.pow(-2*k+2,2)/2;s.colocar(l1>Lg&&k>.85?l1:l0+(Math.min(l1,Lg)-l0)*e);
+      if(k<1)requestAnimationFrame(paso);else{ant.classList.remove('anda');s.colocar(l1);s.ocupado=false;}})(t0);};
+  s.pintar();s.colocar(s.destino());return s;
+}
+
+
+function pgTareas(){const H='pctrvtcp'.split(''),D='pcrtvcpt'.split('');const t=[];
+  for(let i=0;i<E.done;i++)t.push({l:D[i%D.length],ok:1});
+  for(let i=0;i<E.venc&&t.length<E.total;i++)t.push({l:i%2?'t':'c',venc:1});
+  while(t.length<E.total)t.push({l:H[t.length%H.length]});return t;}
+function rastroSVG(){return `<div class="pg-host"><svg width="0" height="0"><path id="tr-guia" d="M0 0"/><path id="tr-mask" d="M0 0"/><g id="tr-hor"><svg class="hormiga"></svg></g></svg></div>`;}
+function ponerProgreso(){const h=document.querySelector('.pg-host');if(!h)return;
+  const mv=h.getBoundingClientRect().width<420;PG=pgNuevo(h,{tareas:pgTareas(),movil:mv});
+  if(mv){h.classList.add('pg-movil');h.querySelector('svg').setAttribute('viewBox','0 24 360 100');}pie();}
+function pie(){const mv=document.querySelector('.pg-movil');
+  const n=document.getElementById('n-nav');if(n)n.textContent=E.pend;const c=document.getElementById('n-tareas');if(c)c.textContent=E.pend;
+  const m=document.getElementById('mes');if(!m)return;
+  m.innerHTML=mv?`de noviembre · <b>${E.done} de ${E.total}</b> hechas${E.venc?` · <span style="color:var(--venc);font-weight:600">${E.venc} vencidas</span>`:''}`:(E.pend?`de noviembre · ${E.pend} sin hacer`:'de noviembre · nada pendiente');}
+function avanzar(){if(PG)PG.completar();}
+function migas(){}
 /* ═══ Arranque ═══ */
 texturas();
 const raiz=document.getElementById('raiz');

diff --git a/docs/disenos/hormiga/LEEME.md b/docs/disenos/hormiga/LEEME.md
@@ -221,3 +221,4 @@ Incluye los casos: empezando, casi, día completo, 14 tareas, y la versión móv
 - **Entrada (26-nov):** la puerta del hormiguero pasa de la cima a la base, mirando al camino, y la senda sube por una rampa de tierra hasta ella. Al terminar el día, la hormiga espera en la puerta.
 - **Hormiguero (26-nov):** silueta irregular con volumen (luz arriba a la izquierda y sombra en el suelo), textura de granos de tierra y un par de ramitas. Las tareas hechas se guardan como una pila de semillas de colores junto a la puerta, y el montículo crece un poco con el progreso del día.
 - **Hormiguero de Actividad (26-nov):** el montículo de arriba tiene el mismo estilo que el del progreso (volumen, textura y ramitas). Raíces que bajan desde la hierba; cámaras con luz cálida dentro; las tareas de cada semana como una pila de semillas en el suelo de la cámara; etiquetas en tablillas legibles sobre la tierra, y una banderita en la mejor semana («tu mejor semana» / «récord»).
+- **Pasado a las maquetas (26-nov):** el progreso de `progreso.html` (senda, paradas, hormiguero) sustituye al rastro de puntos en Hoy, Hábitos, Día terminado y Agenda, en PC, móvil y tableta. En el móvil el contador pasa al subtítulo («2/6 hechas · 2 vencidas») para no alargar la cabecera.
